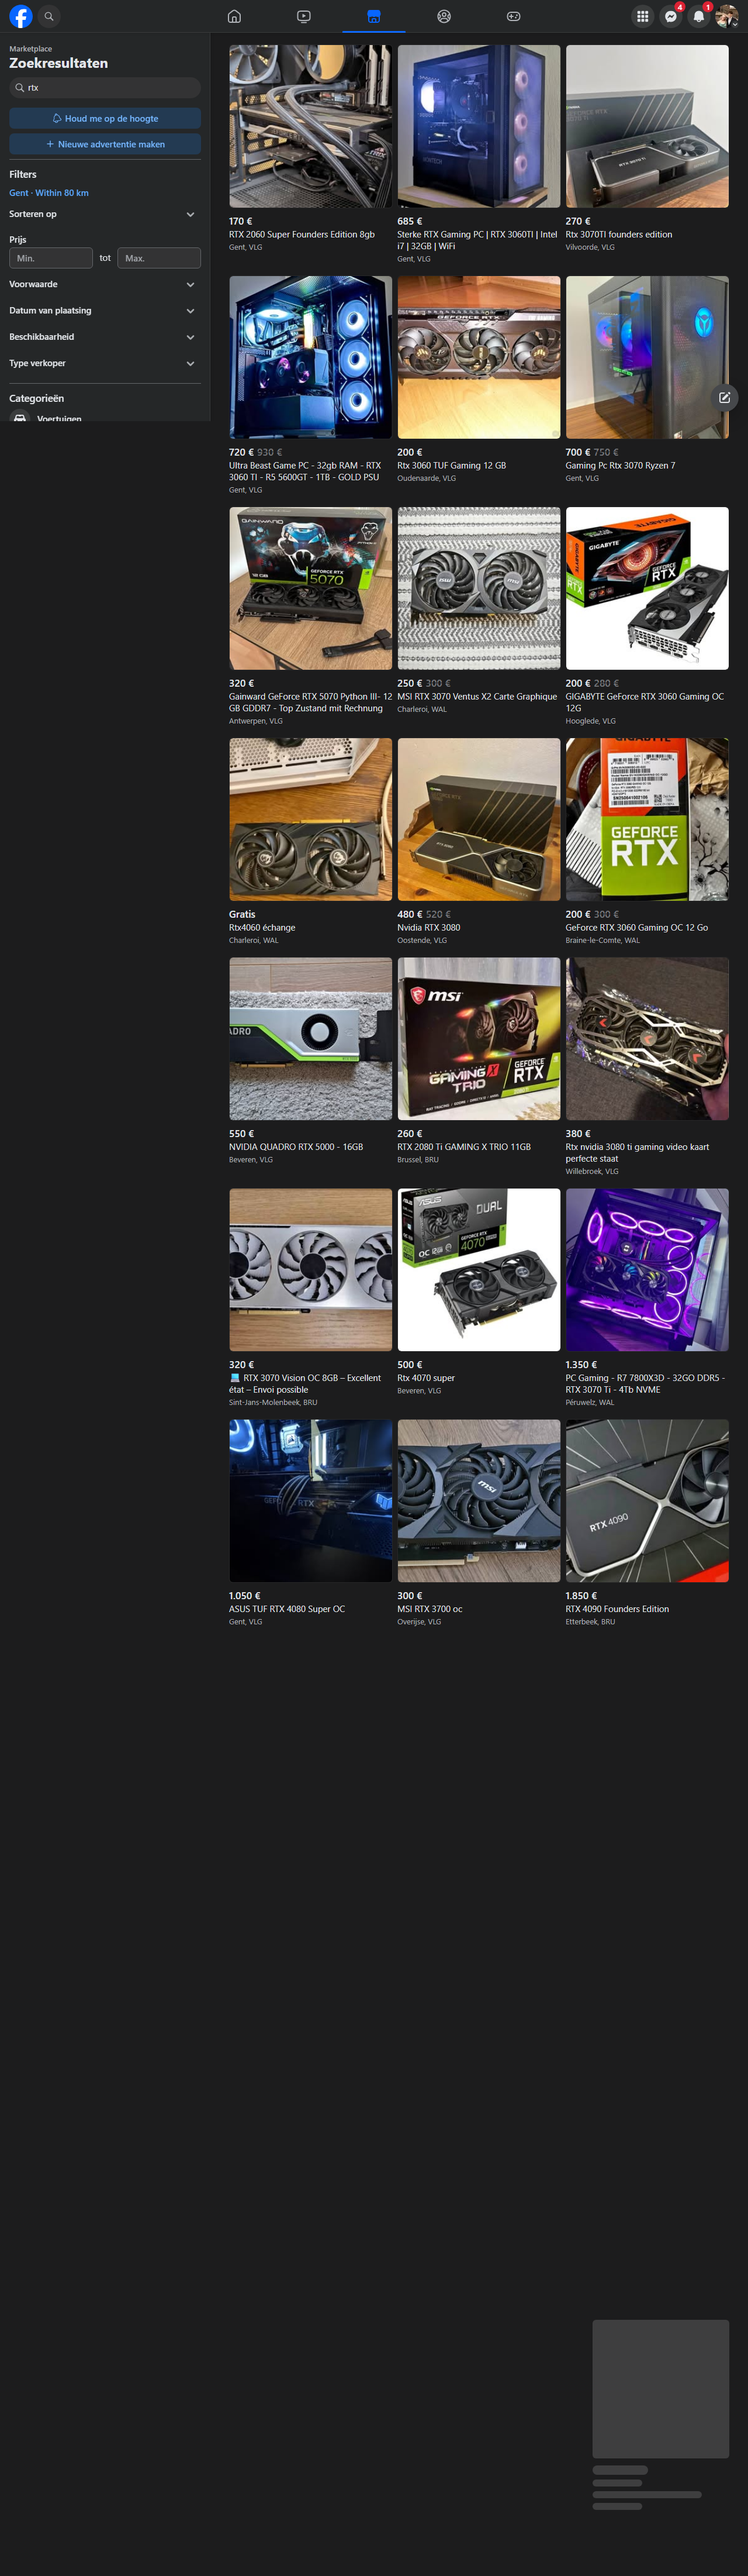
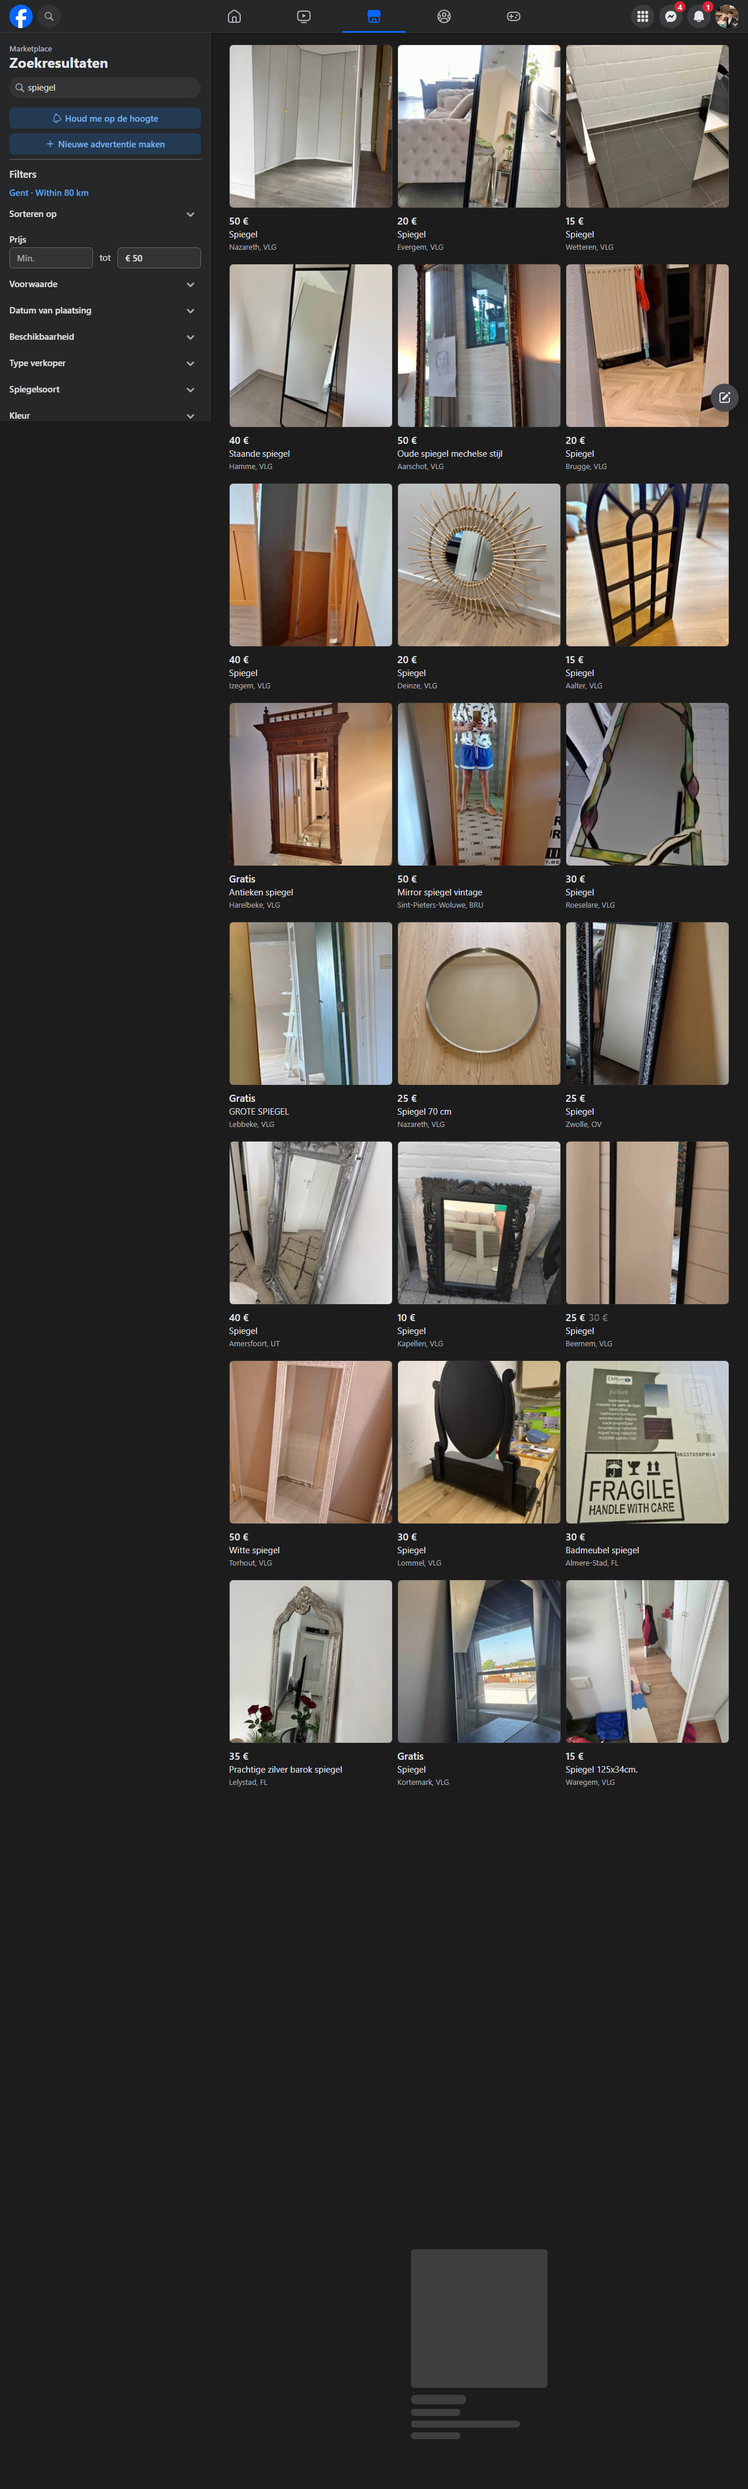
Added maximum price, version 1 is now complete

diff --git a/scraper/facebookScraper.py b/scraper/facebookScraper.py
@@ -7,7 +7,7 @@ load_dotenv()
 FB_C_USER = os.getenv("FB_C_USER")
 FB_XS = os.getenv("FB_XS")
 
-def scrape_marketplace(query, region_id):
+def scrape_marketplace(query, region_id, max_price):
     with sync_playwright() as p:
         browser = p.chromium.launch(headless=True)
         context = browser.new_context(user_agent=(
@@ -23,7 +23,7 @@ def scrape_marketplace(query, region_id):
         ])
 
         page = context.new_page()
-        url = f"https://www.facebook.com/marketplace/{region_id}/search?query={query}"
+        url = f"https://www.facebook.com/marketplace/{region_id}/search?maxPrice={max_price}&query={query}&exact=false"
         print(f"🔍 Openen: {url}")
         page.goto(url)
         page.wait_for_selector("a[href^='/marketplace/item/']", timeout=15000)
@@ -34,7 +34,7 @@ def scrape_marketplace(query, region_id):
 
         # Scrape item-kaarten
         cards = page.query_selector_all("a[href^='/marketplace/item/']")
-        print(f"🔎 Gevonden kaarten: {len(cards)}")
+        print(f"🔎 Gevonden zoekertjes: {len(cards)}")
 
         seen_links = set()
 
@@ -86,6 +86,10 @@ if __name__ == "__main__":
         print(f"❌ Geen regio-ID gevonden voor: {regio_naam}")
     else:
         zoekterm = input("🔎 Wat wil je zoeken? ").strip()
-        scrape_marketplace(zoekterm, regio_id)
+        max_price = input("💰 Maximumprijs (bv. 200): ").strip()
 
+        if not max_price.isdigit():
+            print("❌ Ongeldige prijs ingevoerd.")
+        else:
+            scrape_marketplace(zoekterm, regio_id, max_price)
 
